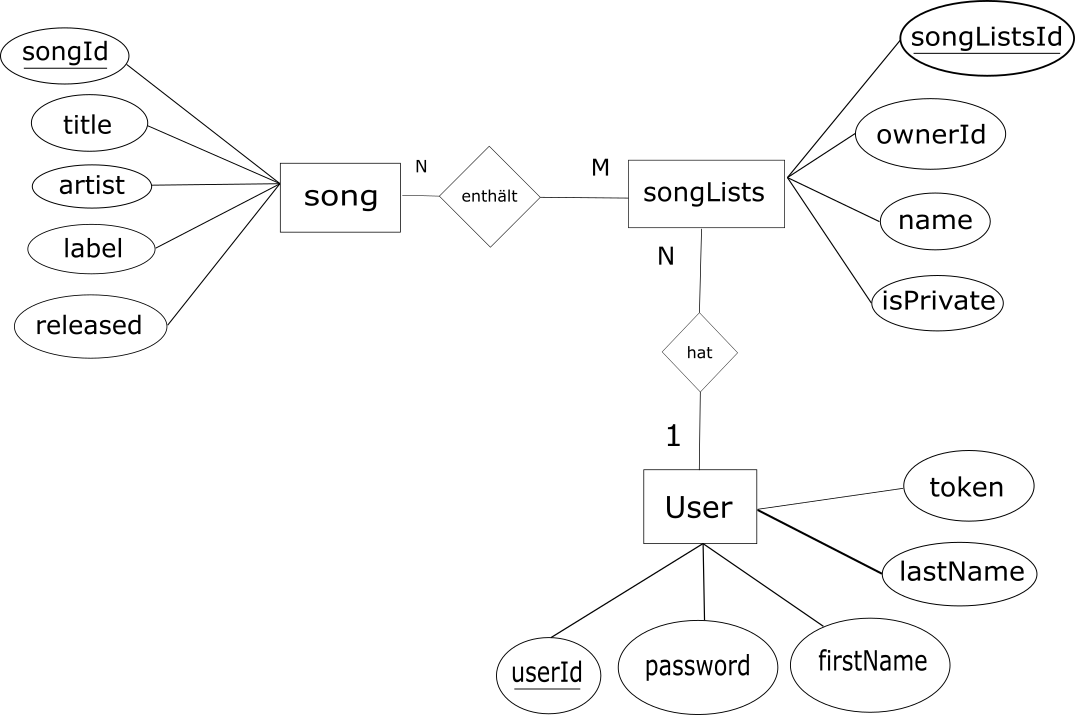
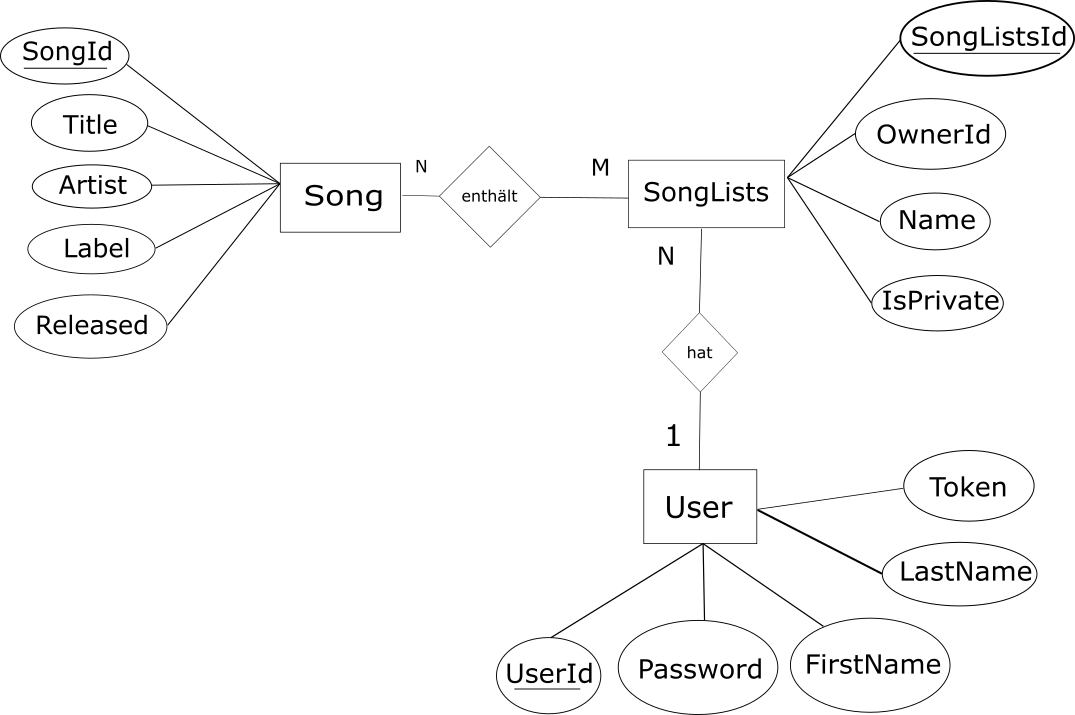
ER Modell und README.md

diff --git a/songmicroservice/src/main/java/de/dastekin/zelkulon/songs/core/domain/model/Song.java b/songmicroservice/src/main/java/de/dastekin/zelkulon/songs/core/domain/model/Song.java
@@ -14,7 +14,7 @@ public class Song {
 
     @Id // kennzeichnet das Identitätsattribut entspricht dem PK (primary key)
     @GeneratedValue(strategy = GenerationType.IDENTITY) // bedeutet, dass der PK automatisch durch die DB vergeben wird
-    @Column(name = "id")
+    @Column(name = "SongId")
     private Integer id = null;
     private String title = null;
     private String artist = null;

diff --git a/README.md b/README.md
@@ -12,7 +12,16 @@ https://spotify-web-api-java.github.io/spotify-web-api-java/se/michaelthelin/spo
 Service Diagramm
 
 ![ER Modell](workOnDrawings/ER-Modell-SongsMS-DB.png)
+ER Modell
 
+Schema der SongsMS Datenbank
+
+Song: {[SongId:integer, Title:string, Artist:string, Label:string, Released:integer]}
+SongList: {[SongListId:integer, OwnerId:string, Name:string, IsPrivate]}
+User: {[UserId:string, Password:string, FirstName:string, LastName:string, Token:string]}
+
+enthält: {[SongListId:integer, SongId:integer]}
+hat: {[UserId:string, SongListId:integer]}
 
 # Gliederung
 
